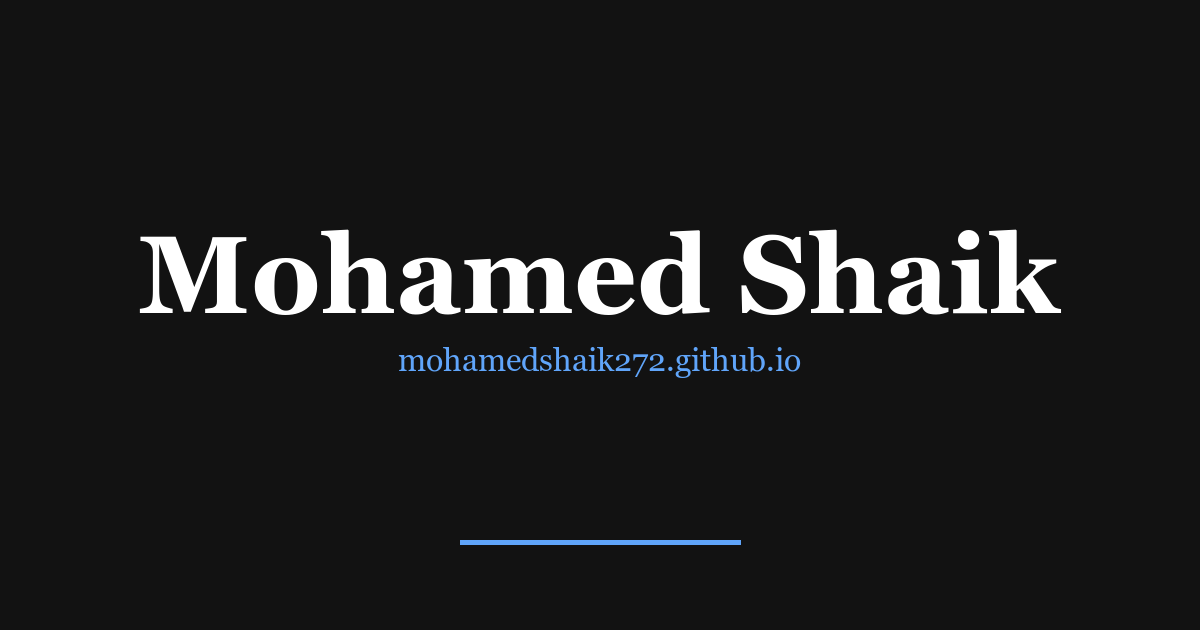
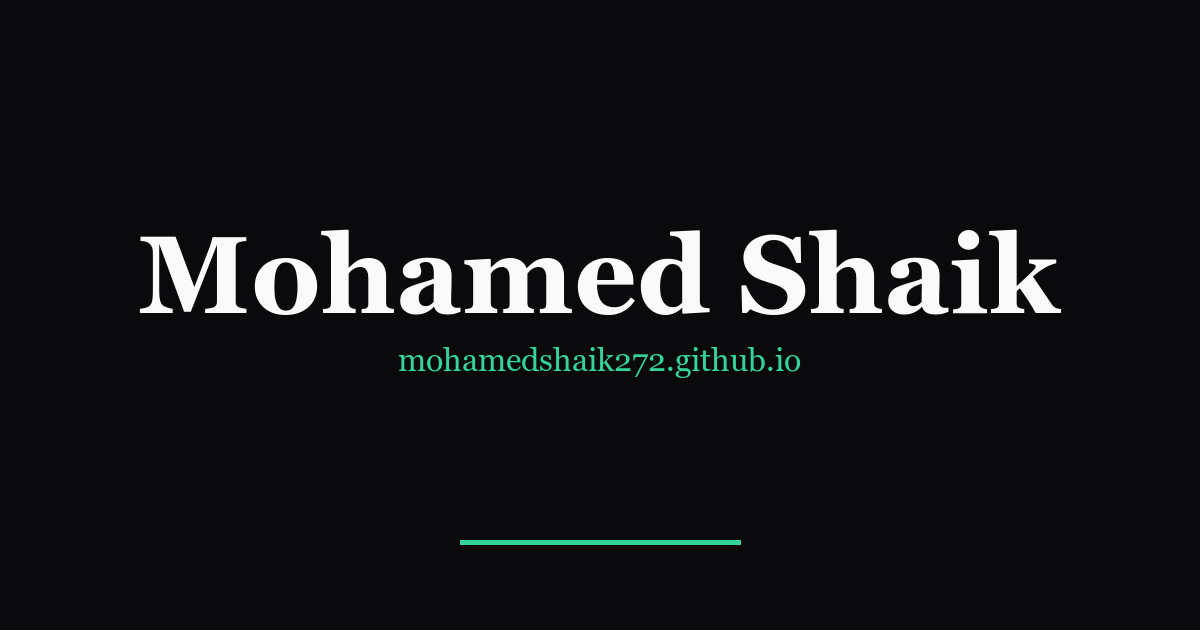
new color palette

Changed region(s): [[0.3392, 0.5429, 0.6783, 0.6032], [0.37, 0.8444, 0.6167, 0.8746]]

diff --git a/index.html b/index.html
@@ -6,8 +6,7 @@
     <meta name="viewport" content="width=device-width, initial-scale=1.0">
     <title>Mohamed Shaik</title>
     <meta name="description" content="Mohamed Shaik — computer science master's student at George Mason University and incoming SDE intern at Amazon Web Services.">
-    <meta name="theme-color" content="#121212">
-    <link rel="icon" type="image/svg+xml" href="favicon.svg">
+    <meta name="theme-color" content="#0a0a0c">
     <meta property="og:type" content="website">
     <meta property="og:url" content="https://www.mohamedshaik.com/">
     <meta property="og:title" content="Mohamed Shaik">
@@ -39,7 +38,7 @@
                 style="height: 50px; width: auto; vertical-align: middle; image-rendering: pixelated;">
 
             <p>Hey there. I'm Mohamed, a computer science master's student at George Mason University. I do
-                research under Professor <a href="https://cs.gmu.edu/~bohan/" target="_blank">Bo Han</a> on real-time
+                research under Professor <a href="https://people.cs.gmu.edu/~bohan/" target="_blank">Bo Han</a> on real-time
                 networking and immersive systems. In my free time, I read and occasionally take
                 <a href="photography.html">photos</a> of things that catch my eye.</p>
 

diff --git a/styles.css b/styles.css
@@ -6,12 +6,12 @@
 }
 
 :root {
-  --bg-color: #121212;        /* Main background */
-  --bg-secondary: #333;       /* Skill backgrounds, borders */
-  --text-color: #e0e0e0;      /* Main text */
-  --text-light: #ffffff;      /* Headings, active nav */
-  --text-muted: #757575;      /* Footer, less important text */
-  --accent-color: #60a5fa;    /* Links, highlights, accents */
+  --bg-color: #0a0a0c;        /* Neutral dark background */
+  --bg-secondary: #27272a;    /* Skill backgrounds, borders */
+  --text-color: #e4e4e7;      /* Body text */
+  --text-light: #fafafa;      /* Headings, active nav */
+  --text-muted: #a1a1aa;      /* Footer, less important text */
+  --accent-color: #34d399;    /* Emerald accent */
 }
 
 html {

diff --git a/experience.html b/experience.html
@@ -6,8 +6,7 @@
     <meta name="viewport" content="width=device-width, initial-scale=1.0">
     <title>Experience</title>
     <meta name="description" content="Mohamed Shaik's experience in software engineering, research, and teaching — including incoming SDE internship at AWS.">
-    <meta name="theme-color" content="#121212">
-    <link rel="icon" type="image/svg+xml" href="favicon.svg">
+    <meta name="theme-color" content="#0a0a0c">
     <meta property="og:type" content="website">
     <meta property="og:url" content="https://www.mohamedshaik.com/experience.html">
     <meta property="og:title" content="Experience — Mohamed Shaik">

diff --git a/photography.html b/photography.html
@@ -6,8 +6,7 @@
     <meta name="viewport" content="width=device-width, initial-scale=1.0">
     <title>Photography</title>
     <meta name="description" content="Photography by Mohamed Shaik — shot on Sony α7C with Tamron 20-40mm and Sony Zeiss 55mm lenses.">
-    <meta name="theme-color" content="#121212">
-    <link rel="icon" type="image/svg+xml" href="favicon.svg">
+    <meta name="theme-color" content="#0a0a0c">
     <meta property="og:type" content="website">
     <meta property="og:url" content="https://www.mohamedshaik.com/photography.html">
     <meta property="og:title" content="Photography — Mohamed Shaik">

diff --git a/projects.html b/projects.html
@@ -6,8 +6,7 @@
     <meta name="viewport" content="width=device-width, initial-scale=1.0">
     <title>Projects</title>
     <meta name="description" content="Selected software, hardware, and research projects by Mohamed Shaik.">
-    <meta name="theme-color" content="#121212">
-    <link rel="icon" type="image/svg+xml" href="favicon.svg">
+    <meta name="theme-color" content="#0a0a0c">
     <meta property="og:type" content="website">
     <meta property="og:url" content="https://www.mohamedshaik.com/projects.html">
     <meta property="og:title" content="Projects — Mohamed Shaik">
